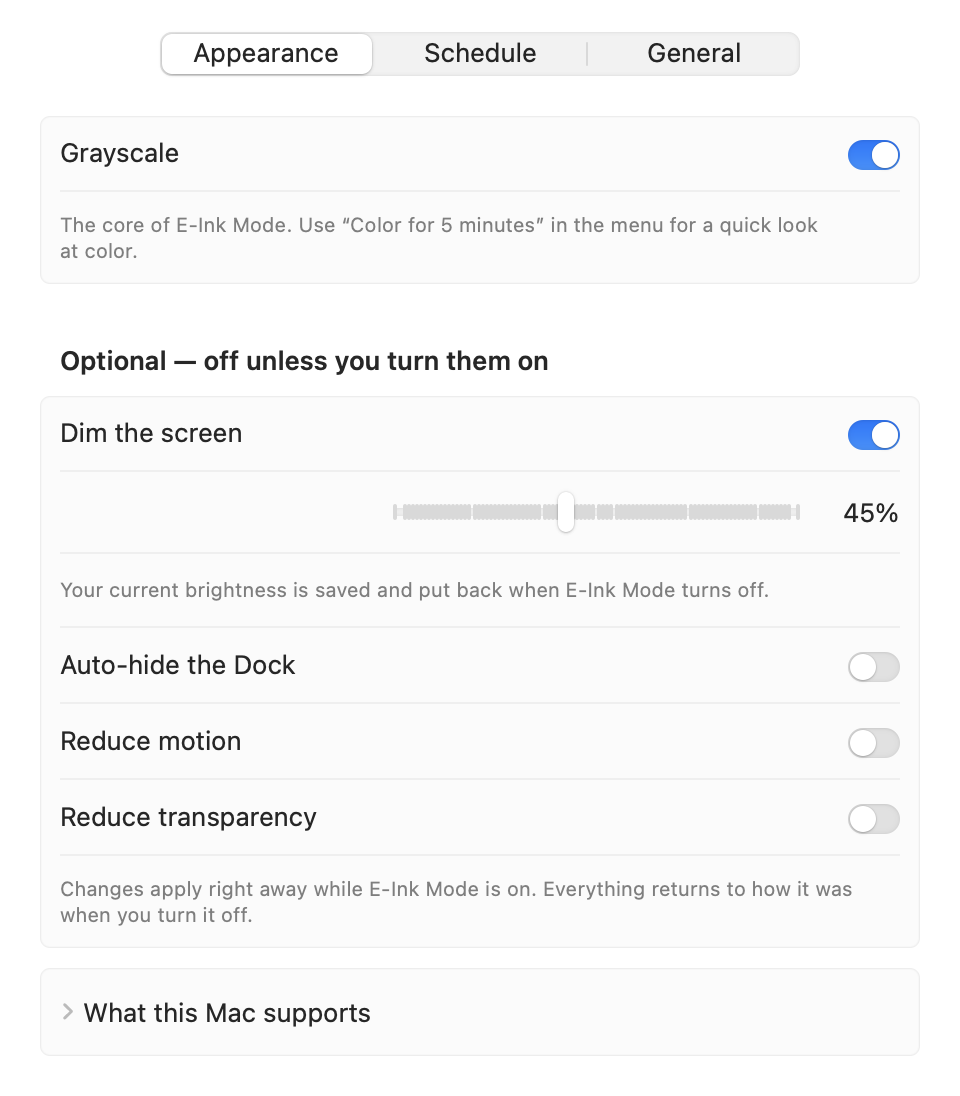
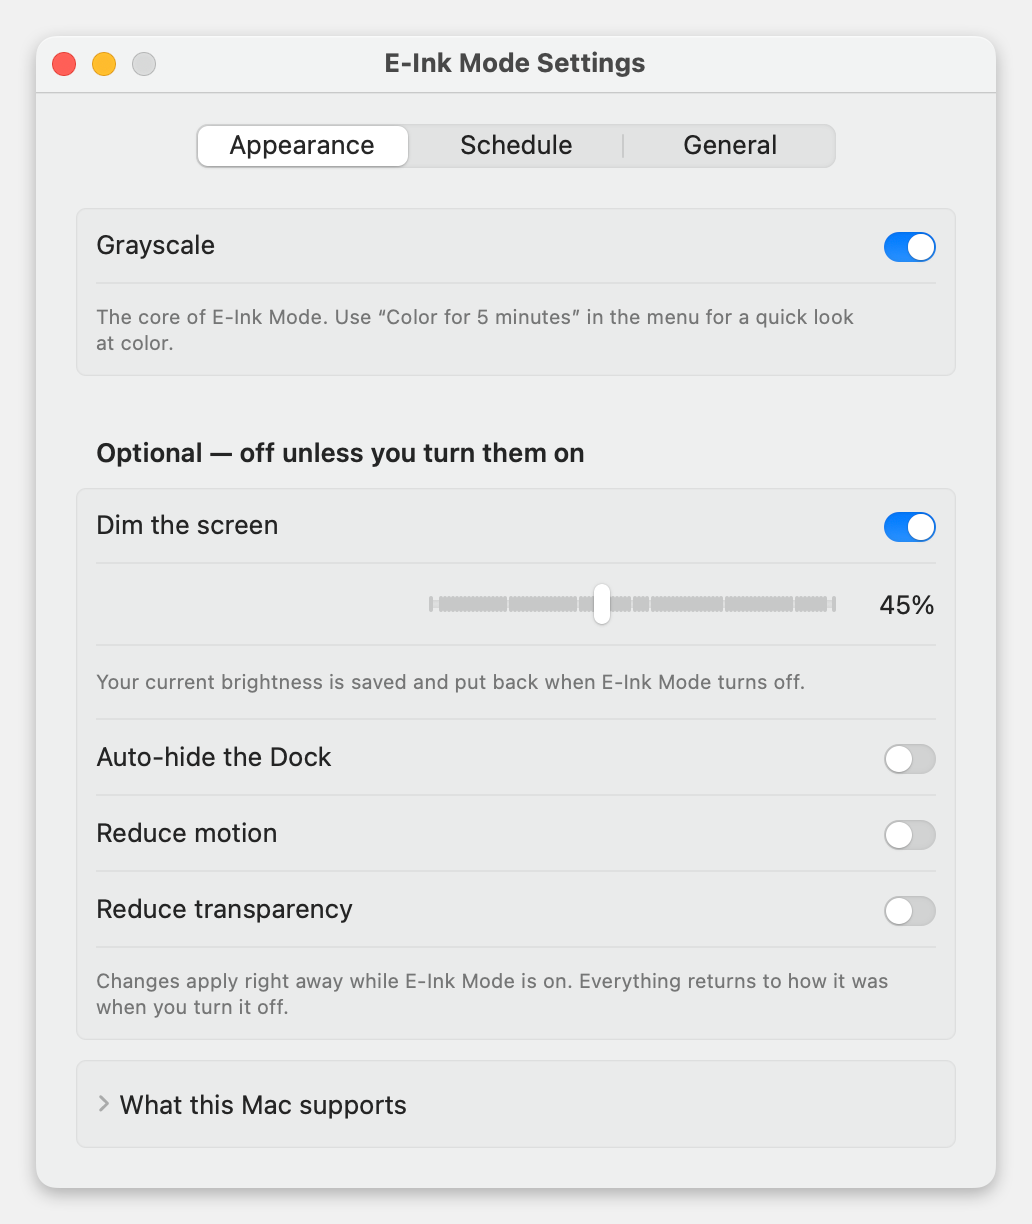
README QA: opaque framed screenshots, accurate copy, no local paths
- Snapshot tool captures real window chrome and frames every image on an opaque
  backdrop, so screenshots read on GitHub's light and dark themes
- Welcome screenshot shows the new-user default (click-to-flip off)
- Settings help hint shows the installed path abbreviated with ~ (never a build path)
- Fix README copy for greyed-out accessibility options and the Gatekeeper dialog button

diff --git a/Sources/EinkBar/QASnapshots.swift b/Sources/EinkBar/QASnapshots.swift
@@ -11,7 +11,7 @@ enum QASnapshots {
         let controller = model.controller
         let savedFlip = UserDefaults.standard.object(forKey: "clickToFlip") // don't leak QA choices into real preferences
         var shots: [(String, () -> Void, () -> AnyView)] = [
-            ("welcome", { try? controller.setMode(false) }, { AnyView(OnboardingView(model: model) { _ in }) }),
+            ("welcome", { try? controller.setMode(false); model.clickToFlip = false /* new-user default */ }, { AnyView(OnboardingView(model: model) { _ in }) }),
             ("settings-appearance", {
                 try? controller.edit { $0.brightness = 0.45; $0.hideDock = false }
                 navigation.tab = .appearance
@@ -35,21 +35,32 @@ enum QASnapshots {
             let (name, prepare, view) = shots.removeFirst()
             prepare()
             model.status = try? controller.status()
-            let window = NSWindow(contentRect: .zero, styleMask: [.titled, .closable], backing: .buffered, defer: false)
+            let window = NSWindow(contentRect: .zero, styleMask: [.titled, .closable, .miniaturizable], backing: .buffered, defer: false)
             window.appearance = NSAppearance(named: .aqua)
+            window.isReleasedWhenClosed = false
+            window.title = name == "welcome" ? "Welcome to E-Ink Mode" : "E-Ink Mode Settings"
             window.contentViewController = NSHostingController(rootView: view())
             window.setFrameOrigin(NSPoint(x: -4000, y: 0))
             NSApp.activate(ignoringOtherApps: true)
             window.makeKeyAndOrderFront(nil) // key windows draw controls with their accent color
             // Let SwiftUI lay out and AppKit controls draw before capturing.
             DispatchQueue.main.asyncAfter(deadline: .now() + 1.0) {
+                NSApp.activate(ignoringOtherApps: true)
+                window.makeKeyAndOrderFront(nil) // re-assert key status so the title bar renders active
                 window.makeFirstResponder(nil)
-                if let content = window.contentView, let rep = content.bitmapImageRepForCachingDisplay(in: content.bounds) {
-                    content.cacheDisplay(in: content.bounds, to: rep)
-                    try? rep.representation(using: .png, properties: [:])?.write(to: folder.appendingPathComponent("\(name).png"))
-                    print("snapshot \(name).png \(Int(content.bounds.width))x\(Int(content.bounds.height))")
-                }
-                window.orderOut(nil)
+                // Capture the real window (title bar included, no system shadow), then frame it on a backdrop
+                // so the image is opaque and readable on light and dark pages alike.
+                let raw = FileManager.default.temporaryDirectory.appendingPathComponent("eink-\(name)-raw.png")
+                let capture = Process()
+                capture.executableURL = URL(fileURLWithPath: "/usr/sbin/screencapture")
+                capture.arguments = ["-x", "-o", "-l\(window.windowNumber)", raw.path]
+                try? capture.run(); capture.waitUntilExit()
+                if let image = NSImage(contentsOf: raw), let framed = framedOnBackdrop(image) {
+                    try? framed.write(to: folder.appendingPathComponent("\(name).png"))
+                    print("snapshot \(name).png \(Int(image.size.width))x\(Int(image.size.height))")
+                } else { print("snapshot \(name) failed") }
+                try? FileManager.default.removeItem(at: raw)
+                window.close()
                 next()
             }
         }
@@ -72,7 +83,7 @@ enum QASnapshots {
             ("menu-color", { try? controller.startTemporaryColor(for: 272) }),
         ]
         let backdrop = NSWindow(contentRect: NSRect(x: 0, y: 0, width: 520, height: 480), styleMask: [.borderless], backing: .buffered, defer: false)
-        backdrop.backgroundColor = NSColor(calibratedWhite: 0.93, alpha: 1)
+        backdrop.backgroundColor = QASnapshots.backdrop
         backdrop.appearance = NSAppearance(named: .aqua)
         backdrop.center(); backdrop.orderFrontRegardless()
         let inertTarget = NSObject() // menu item targets are weak; keep one alive while rendering
@@ -100,5 +111,28 @@ enum QASnapshots {
             menu.popUp(positioning: nil, at: origin, in: backdrop.contentView)
         }
         backdrop.orderOut(nil)
+    }
+
+    static let backdrop = NSColor(calibratedWhite: 0.93, alpha: 1)
+
+    /// Draws `image` with a soft window shadow on an opaque backdrop, at the capture's pixel density.
+    private static func framedOnBackdrop(_ image: NSImage, padding: CGFloat = 36) -> Data? {
+        guard let source = image.representations.first else { return nil }
+        let scale = CGFloat(source.pixelsWide) / image.size.width
+        let size = NSSize(width: image.size.width + padding * 2, height: image.size.height + padding * 2)
+        guard let rep = NSBitmapImageRep(bitmapDataPlanes: nil, pixelsWide: Int(size.width * scale), pixelsHigh: Int(size.height * scale),
+                                         bitsPerSample: 8, samplesPerPixel: 4, hasAlpha: true, isPlanar: false,
+                                         colorSpaceName: .deviceRGB, bytesPerRow: 0, bitsPerPixel: 0) else { return nil }
+        rep.size = size
+        NSGraphicsContext.saveGraphicsState()
+        NSGraphicsContext.current = NSGraphicsContext(bitmapImageRep: rep)
+        backdrop.setFill(); NSRect(origin: .zero, size: size).fill()
+        let shadow = NSShadow()
+        shadow.shadowColor = NSColor.black.withAlphaComponent(0.28)
+        shadow.shadowBlurRadius = 18; shadow.shadowOffset = NSSize(width: 0, height: -6)
+        shadow.set()
+        image.draw(in: NSRect(x: padding, y: padding, width: image.size.width, height: image.size.height))
+        NSGraphicsContext.restoreGraphicsState()
+        return rep.representation(using: .png, properties: [:])
     }
 }

diff --git a/Sources/EinkBar/SettingsView.swift b/Sources/EinkBar/SettingsView.swift
@@ -178,6 +178,11 @@ struct ScheduleSettings: View {
 
 struct GeneralSettings: View {
     @ObservedObject var model: AppModel
+    /// The installed location, shortened with ~ (docs snapshots show the standard location).
+    private var appPath: String {
+        ProcessInfo.processInfo.environment["EINK_SIMULATED"] == "1" ? "/Applications/E-Ink Mode.app"
+            : (Bundle.main.bundlePath as NSString).abbreviatingWithTildeInPath
+    }
     let actions: SettingsActions
     @AppStorage("shortcut") private var shortcut = Shortcut.presets[0].id
     var body: some View {
@@ -221,7 +226,7 @@ struct GeneralSettings: View {
                     Button("Show Welcome Guide", action: actions.showWelcome)
                     Button("Restore Display Now") { model.restoreDisplay() }.disabled(!model.active && !model.needsRecovery)
                 }
-                Hint("Quitting always restores your display. From Terminal: “\(Bundle.main.bundlePath)/Contents/MacOS/eink off”.")
+                Hint("Quitting always restores your display. From Terminal: “\(appPath)/Contents/MacOS/eink off”.")
             }
         }
         .formStyle(.grouped)
